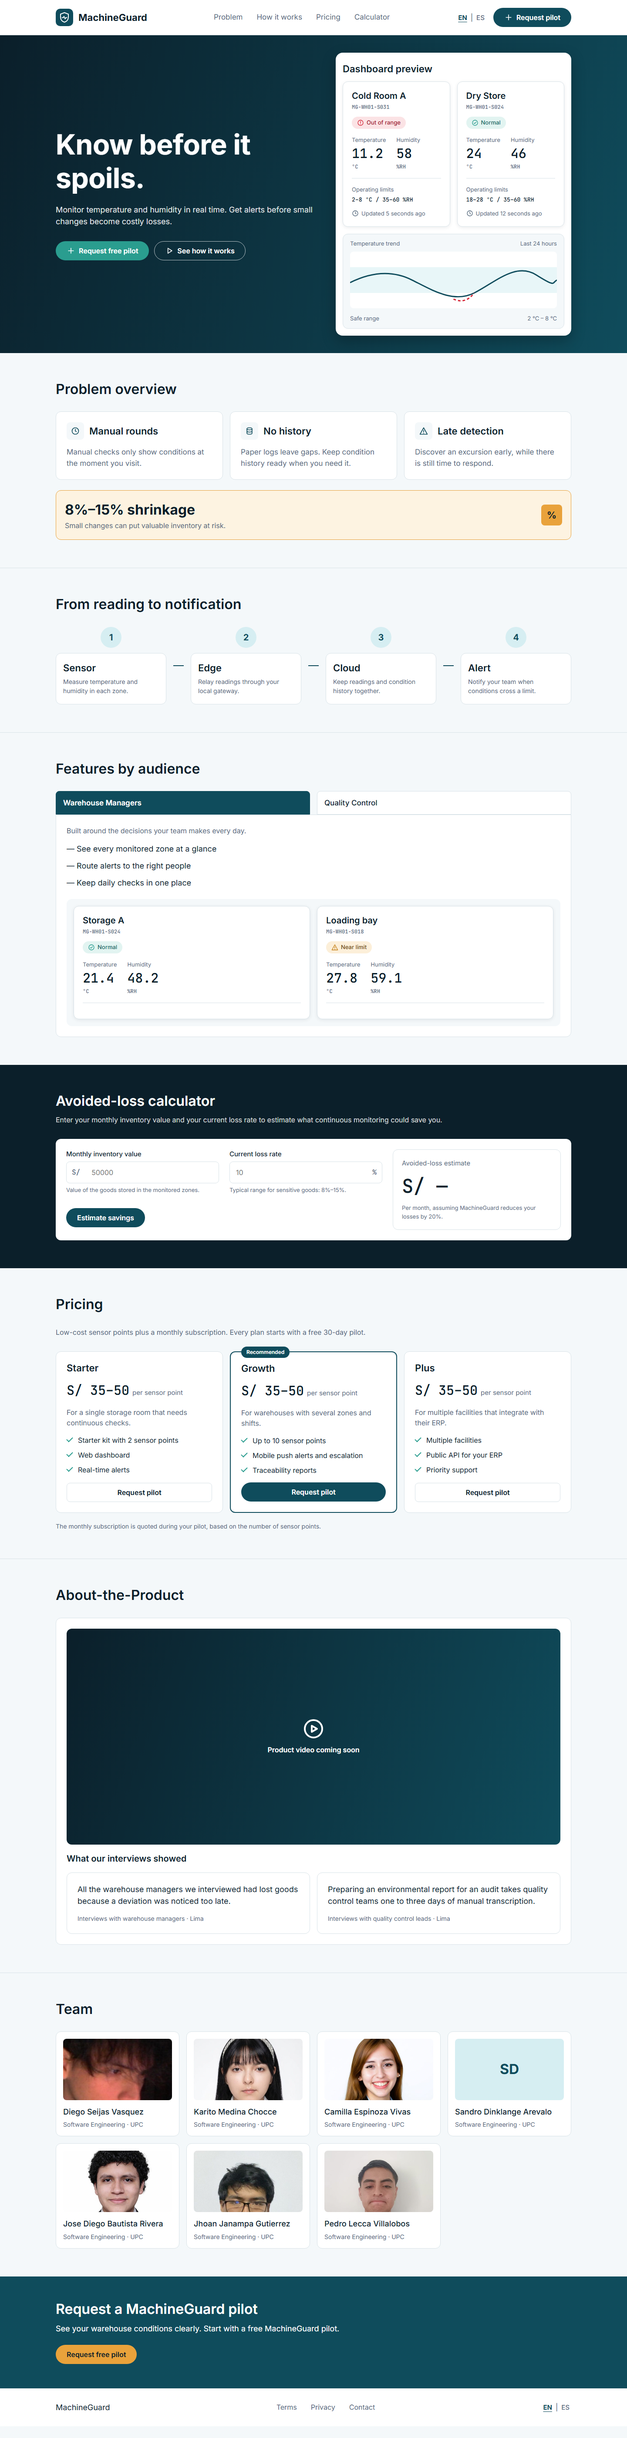
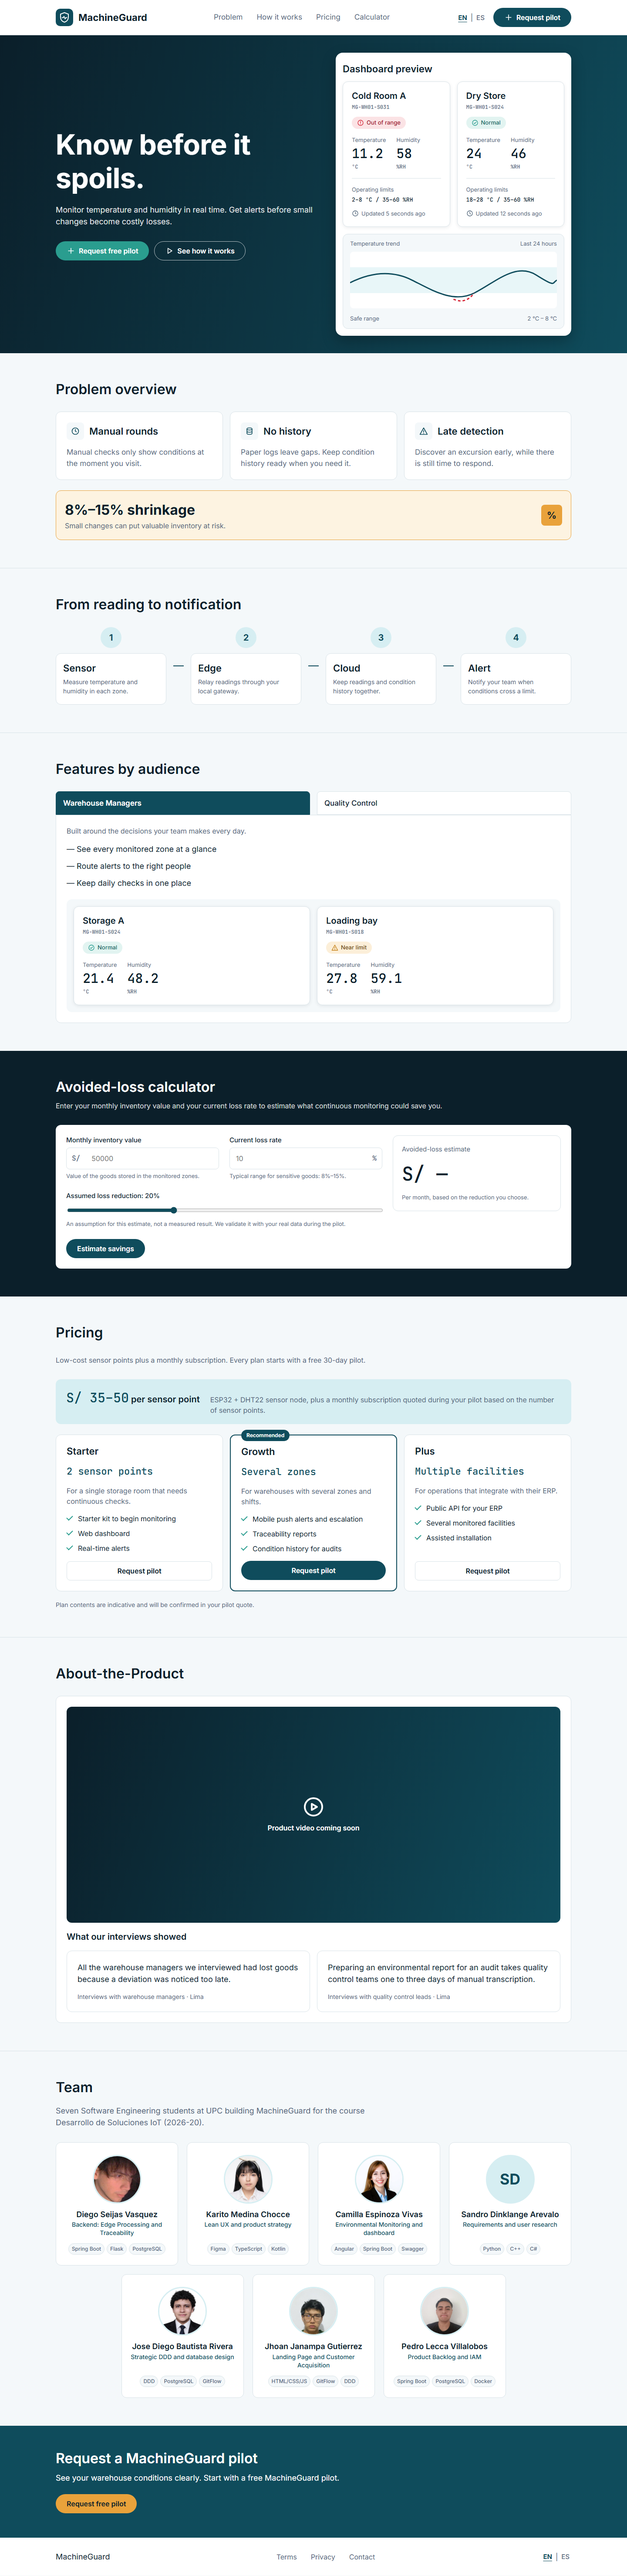
docs(chapter6): add Landing Page deployment evidence, tests, team section and updated screenshots

Changed region(s): [[0.0, 0.0, 1.0, 1.0], [0.75, 0.0, 0.9062, 0.0938]]

diff --git a/docs/chapter6-product-implementation-validation-deployment.md b/docs/chapter6-product-implementation-validation-deployment.md
@@ -24,11 +24,12 @@ El Landing Page es un sitio estático (HTML5, CSS3 y JavaScript sin dependencias
 
 | Elemento | Configuración |
 |---|---|
-| Hosting | GitHub Pages (fuente: GitHub Actions) |
+| Hosting | GitHub Pages, publicado por el workflow de GitHub Actions |
 | Disparador | `push` a `main` o ejecución manual |
-| Artefacto | Carpeta `_site` con `index.html`, `terms.html`, `privacy.html` y `assets/` |
+| Artefacto | Carpeta `_site` con `index.html`, `404.html`, `terms.html`, `privacy.html`, `robots.txt`, `sitemap.xml` y `assets/` |
 | Acciones utilizadas | `actions/checkout@v4`, `actions/configure-pages@v5`, `actions/upload-pages-artifact@v3`, `actions/deploy-pages@v4` |
 | Permisos del workflow | `contents: read`, `pages: write`, `id-token: write` |
+| Integración continua | Workflow `.github/workflows/ci.yml`: ejecuta `node --test` en `develop`, ramas `feature/**` y pull requests hacia `develop` y `main` |
 | Configuración de ejecución | `assets/js/config.js` (`apiBaseUrl` vacío = modo demostración) |
 
 > Pendiente: configuración de despliegue de la RESTful API y de la Web Application.
@@ -323,18 +324,19 @@ Se implementó el Landing Page de MachineGuard en el repositorio [MachineGuard/M
 * **Hero:** titular “Know before it spoils.”, botones *Request free pilot* y *See how it works*, y una vista previa del dashboard con las zonas Cold Room A (fuera de rango) y Dry Store (normal) y un gráfico de tendencia con su Safe Range.
 * **Problem overview y From reading to notification:** tres tarjetas del problema, el banner de 8%–15% de merma (Capítulo I) y los cuatro pasos Sensor, Edge, Cloud y Alert.
 * **Features by audience:** pestañas accesibles (teclado y `aria-selected`) para Warehouse Managers y Quality Control, con tarjetas de zona de ejemplo.
-* **Avoided-loss calculator (US14):** formulario con valor mensual del inventario y tasa de pérdida actual; valida los datos antes de calcular y muestra el ahorro estimado.
-* **Pricing, About-the-Product, Team y CTA final:** tres planes, espacio para el video, hallazgos de las entrevistas del Capítulo II, las siete tarjetas del equipo y el cierre con *Request free pilot*.
+* **Avoided-loss calculator (US14):** formulario con valor mensual del inventario, tasa de pérdida actual y una reducción de pérdidas asumida ajustable (5 %–50 %, 20 % por defecto). Valida los datos antes de calcular, muestra el ahorro mensual y anual estimado y, tras calcular, ofrece el botón *Request a pilot with this estimate*, que abre el formulario con la pérdida estimada precargada.
+* **Pricing, About-the-Product, Team y CTA final:** un recuadro con el precio documentado por punto de sensor y tres planes (Starter, Growth y Plus) diferenciados por alcance, espacio para el video, hallazgos de las entrevistas del Capítulo II, la sección de equipo y el cierre con *Request free pilot*.
+* **Team:** siete tarjetas con foto circular, nombre, el rol de cada integrante en el proyecto y tres tecnologías. Los roles se derivan de los capítulos y secciones que cada integrante redactó o implementó, y las tecnologías, de los perfiles de la sección 1.1.2 y del trabajo registrado en este Capítulo. La última fila se centra y, en pantallas pequeñas, las tarjetas pasan a un diseño horizontal.
 * **Formulario de solicitud de piloto (US15):** diálogo modal accesible con empresa, nombre de contacto, correo, teléfono, rubro, pérdida mensual estimada (opcional) y aceptación de Terms y Privacy. Cada campo corresponde a un atributo del agregado `PilotRequest` del Capítulo IV.
 * **Páginas legales:** `terms.html` y `privacy.html`, requeridas por el enunciado y enlazadas desde el pie de página y desde el formulario.
 
 **Reglas implementadas**
 
-* **Calculadora:** pérdida estimada = valor del inventario × tasa de pérdida; el ahorro estimado se calcula asumiendo una reducción del 20 % de esa pérdida (parámetro `avoidedLossReduction` en `config.js`). El valor debe ser mayor que cero y la tasa debe estar entre 0.1 % y 100 %; de lo contrario se solicita corregir los datos antes de calcular (Scenario 2 de US14).
+* **Calculadora:** pérdida estimada = valor del inventario × tasa de pérdida; el ahorro mensual estimado es esa pérdida multiplicada por la reducción asumida, y el anual es ese ahorro por doce. La reducción es seleccionable entre 5 % y 50 % (valor inicial: parámetro `avoidedLossReduction` de `config.js`, 20 %) y se indica en pantalla que es un supuesto, no un resultado medido. El valor debe ser mayor que cero y la tasa debe estar entre 0.1 % y 100 %; de lo contrario se solicita corregir los datos antes de calcular (Scenario 2 de US14). La lógica vive en `assets/js/calc.js`, separada de la interfaz para poder probarla.
 * **Formulario:** correo y teléfono con formato válido, todos los campos obligatorios completos y términos aceptados antes de enviar. El correo se normaliza a minúsculas. Si el visitante usó la calculadora, la pérdida estimada se precarga en el formulario.
 * **Internacionalización:** textos en `en_US` (por defecto) y `es_419` mediante diccionarios en `assets/js/i18n.js`; el idioma se toma de la URL (`?lang=`), de la preferencia guardada en el navegador o del idioma del navegador.
 * **Accesibilidad:** enlace para saltar al contenido, estados de campo con `aria-invalid` y mensajes en regiones `aria-live`, foco visible, objetivos táctiles de 44 px como mínimo y estados de zona que combinan color, icono y texto.
-* **SEO:** título, descripción, palabras clave, Open Graph, `hreflang` y datos estructurados JSON-LD de tipo `SoftwareApplication`, según la sección 5.2.3.
+* **SEO:** título, descripción, palabras clave, Open Graph con imagen de vista previa (`og-image.png`), `hreflang`, datos estructurados JSON-LD de tipo `SoftwareApplication`, `robots.txt`, `sitemap.xml` y una página `404.html`, según la sección 5.2.3.
 
 **Commits**
 
@@ -349,18 +351,26 @@ Se implementó el Landing Page de MachineGuard en el repositorio [MachineGuard/M
 | `MachineGuard-LandingPage` | `feature/landing-page` | `dbc5b40` | `fix(landing): fix team photo ratio and replace quoted findings with plain text` | 2026-10-07 |
 | `MachineGuard-LandingPage` | `develop` | `1fe7a1d` | `feat(landing): merge feature/landing-page into develop` | 2026-10-07 |
 | `MachineGuard-LandingPage` | `main` | `418b30e` | `chore: release landing page v1.0.0` | 2026-10-07 |
+| `MachineGuard-LandingPage` | `feature/landing-improvements` | `efc936f` | `refactor(landing): extract calculator logic into a testable module with unit tests` | 2026-10-07 |
+| `MachineGuard-LandingPage` | `feature/landing-improvements` | `76f84a7` | `ci: run unit tests on develop, feature branches and pull requests` | 2026-10-07 |
+| `MachineGuard-LandingPage` | `feature/landing-improvements` | `7e6161f` | `feat(landing): adjustable loss-reduction assumption, annual estimate and pilot CTA in calculator; clearer pricing model; mobile fixes` | 2026-10-07 |
+| `MachineGuard-LandingPage` | `feature/landing-improvements` | `7b1afb8` | `feat(seo): add og-image, robots.txt, sitemap.xml and 404 page` | 2026-10-07 |
+| `MachineGuard-LandingPage` | `feature/landing-improvements` | `f32089c` | `feat(landing): redesign team section with project roles, skill tags and circular photos` | 2026-10-07 |
+| `MachineGuard-LandingPage` | `develop` | `30baf51` | `feat(landing): merge feature/landing-improvements into develop` | 2026-10-07 |
+| `MachineGuard-LandingPage` | `main` | `63efb98` | `chore: release landing page v1.1.0` | 2026-10-07 |
 
 **Ajustes respecto al diseño del Capítulo V**
 
-* El mockup usa marcadores de posición en precios y testimonios. El Landing Page muestra únicamente el dato documentado en el Capítulo I (S/ 35–50 por punto de sensor) e indica que la suscripción mensual se cotiza durante el piloto; en lugar de testimonios, presenta dos hallazgos de las entrevistas del Capítulo II (100 % de los jefes de almacén perdió mercadería por detectar tarde una desviación y entre uno y tres días de trabajo para preparar un reporte de calidad), sin atribuirlos como citas textuales.
+* El mockup usa marcadores de posición en precios y testimonios. El Landing Page muestra el dato documentado en el Capítulo I (S/ 35–50 por punto de sensor) una sola vez, en un recuadro común, e indica que la suscripción mensual se cotiza durante el piloto; los tres planes se diferencian por alcance (2 puntos de sensor, varias zonas, múltiples instalaciones) y por funcionalidades ya definidas en el informe, y se aclara que su contenido es referencial; en lugar de testimonios, presenta dos hallazgos de las entrevistas del Capítulo II (100 % de los jefes de almacén perdió mercadería por detectar tarde una desviación y entre uno y tres días de trabajo para preparar un reporte de calidad), sin atribuirlos como citas textuales.
 * El espacio del video About-the-Product muestra “Product video coming soon” hasta que exista el video (sección 6.4).
 * El formulario de solicitud de piloto se implementó como diálogo modal sobre la misma página, en lugar de una página aparte, para mantener visible el contexto del visitante.
-* Las fotografías del equipo provienen de la sección 1.1.2; Sandro Dinklange Arevalo se representa con sus iniciales porque no existe una fotografía en el repositorio.
+* Las fotografías del equipo provienen de la sección 1.1.2; Sandro Dinklange Arevalo se representa con sus iniciales porque no existe una fotografía en el repositorio. La fotografía de Diego Seijas Vasquez, de baja calidad y muy oscura, se recortó sobre el rostro y se le aplicó una corrección leve de exposición; conviene sustituirla por una fotografía mejor.
 
 **Limitaciones**
 
 * El formulario todavía no se conecta a la RESTful API central: `apiBaseUrl` está vacío y el sitio opera en modo demostración, que valida los datos pero no los envía.
-* La estimación de la calculadora es referencial: el 20 % de reducción de pérdidas es un supuesto de este Sprint, no un resultado medido en un piloto.
+* La estimación de la calculadora es referencial: la reducción de pérdidas es un supuesto elegido por el visitante (20 % por defecto), no un resultado medido en un piloto.
+* El contenido de cada plan (Starter, Growth y Plus) es una propuesta del equipo basada en las capacidades del informe; está pendiente de confirmación junto con la cotización de la suscripción.
 * El texto de Terms y Privacy es un borrador académico pendiente de revisión legal.
 
 #### 6.2.1.5. Testing Suite Evidence for Sprint Review
@@ -535,7 +545,23 @@ No se implementaron archivos BDD `.feature` durante este Sprint para Environment
 
 ##### Jhoan Janampa — Landing Page
 
-No se implementaron pruebas automatizadas para el Landing Page durante este Sprint; no existen archivos de prueba ni archivos BDD `.feature`. La verificación se realizó de forma manual y mediante comprobaciones ejecutadas en el navegador sobre el sitio servido localmente (`python -m http.server`), con los resultados que se muestran en la sección 6.2.1.6.
+Se implementaron pruebas unitarias para la lógica de la calculadora de pérdidas evitadas, extraída a `assets/js/calc.js`. Se ejecutan con el ejecutor de pruebas integrado de Node.js (`node --test`) y se incluyen en el workflow de integración continua `ci.yml`. No existen archivos BDD `.feature`; la interfaz (formulario, idioma, diseño responsivo) se verificó de forma manual en el navegador, con los resultados de la sección 6.2.1.6.
+
+| Archivo de prueba | Tipo | Alcance |
+|---|---|---|
+| `tests/calc.test.js` | Unit Test | Validación de los campos de la calculadora y cálculo del ahorro mensual y anual. |
+
+| Test | Comportamiento validado |
+|---|---|
+| `validate accepts a positive value and a rate within range` | Acepta valores válidos sin errores. |
+| `validate reports required fields when empty` | Informa campos obligatorios vacíos. |
+| `validate rejects zero and negative inventory values` | Rechaza inventarios iguales o menores que cero. |
+| `validate rejects rates outside 0.1%-100% and accepts the limits` | Rechaza tasas fuera de rango y acepta 0.1 % y 100 %. |
+| `estimate: 50000 at 10% loss with 20% reduction avoids 1000 per month` | S/ 50,000 con 10 % de pérdida y 20 % de reducción: pérdida de S/ 5,000, ahorro mensual de S/ 1,000 y anual de S/ 12,000. |
+| `estimate scales with the chosen reduction` | Con 40 % de reducción el ahorro mensual es S/ 2,000. |
+| `estimate clamps the reduction to the 5%-50% assumption range` | Limita la reducción asumida al rango 5 %–50 %. |
+
+Resultado de `node --test` sobre la rama `feature/landing-improvements`: 7 pruebas, 7 correctas, 0 fallidas. El workflow `CI` se ejecutó con resultado exitoso en GitHub Actions al subir `develop` y `feature/landing-improvements` el 2026-10-07 ([ejecución en `develop`](https://github.com/MachineGuard/MachineGuard-LandingPage/actions/runs/37665764609) y [ejecución en `feature/landing-improvements`](https://github.com/MachineGuard/MachineGuard-LandingPage/actions/runs/37665763826)).
 
 #### 6.2.1.6. Execution Evidence for Sprint Review
 
@@ -572,15 +598,21 @@ La verificación funcional del Bounded Context Environmental Monitoring y de la 
 
 ##### Jhoan Janampa — funcionamiento del Landing Page
 
-La verificación funcional se ejecutó el 2026-10-07 sobre el sitio servido localmente en `http://127.0.0.1:8080`, usando un navegador de escritorio con un viewport de 1280 × 900 px y un navegador sin interfaz para las capturas. Se registraron los siguientes resultados:
+La verificación funcional se ejecutó el 2026-10-07 sobre el sitio servido localmente en `http://127.0.0.1:8080` (rama `feature/landing-improvements`), usando un navegador de escritorio con un viewport de 1280 × 900 px y un navegador sin interfaz para las capturas. Se registraron los siguientes resultados:
 
 | Verificación | Resultado |
 |---|---|
 | Carga de `index.html` y de sus recursos | Correcta; sin errores en la consola del navegador. |
 | Imágenes del sitio | Correcta; ninguna imagen rota. Se muestran las siete tarjetas del equipo. |
 | Calculadora con campos vacíos | Muestra “Enter a value.” en ambos campos y no calcula. |
-| Calculadora con inventario de 50 000 y pérdida de 10 % | Pérdida estimada de S/ 5,000.00 y ahorro estimado de S/ 1,000.00. |
-| Calculadora con tasa de 150 % | Muestra “Enter a rate between 0.1% and 100%.” y no calcula. |
+| Calculadora con inventario de 50 000, pérdida de 10 % y reducción de 20 % | Pérdida estimada de S/ 5,000.00, ahorro mensual de S/ 1,000.00 y anual de S/ 12,000.00; aparece el botón *Request a pilot with this estimate*. |
+| Calculadora: mover la reducción asumida a 40 % | El resultado se actualiza al instante a S/ 2,000.00 al mes y S/ 24,000.00 al año. |
+| Calculadora: botón *Request a pilot with this estimate* | Abre el formulario con la pérdida estimada precargada (5000.00). |
+| Calculadora con tasa de 150 % | Muestra “Enter a rate between 0.1% and 100%.”, limpia el resultado y oculta el botón de piloto. |
+| Recursos de SEO | `og-image.png`, `robots.txt`, `sitemap.xml` y `404.html` responden HTTP 200. |
+| Sección Team a 1280, 1024 y 390 px | Siete tarjetas con rol y tecnologías, sin desbordamiento horizontal; las etiquetas de tecnologías caben en una sola línea en las siete tarjetas; la última fila se centra y los textos cambian entre EN y ES. |
+| Sitio publicado en `https://machineguard.github.io/MachineGuard-LandingPage/` | Responde HTTP 200 y contiene los elementos de la versión `v1.1.0` (control de reducción de la calculadora e introducción del equipo); `og-image.png` y `robots.txt` responden HTTP 200. |
+| Diseño responsivo a 390 px | Sin desbordamiento horizontal (`scrollWidth` igual al ancho de pantalla); las capturas generadas a 390 px muestran el contenido completo. |
 | Cambio de idioma a ES | El titular pasa a “Anticípese a la merma.”, `lang` cambia a `es-419` y la preferencia queda guardada en `localStorage`. |
 | Formulario de piloto: apertura | Se abre el diálogo y la pérdida estimada se precarga con 5000.00 desde la calculadora. |
 | Formulario de piloto: envío vacío | Seis mensajes de error (cinco campos obligatorios y la aceptación de términos); no se envía. |
@@ -589,11 +621,12 @@ La verificación funcional se ejecutó el 2026-10-07 sobre el sitio servido loca
 
 ![Landing Page, versión Desktop](../assets/img/chapter-6/landing/landing-desktop.png)
 
-*Figura. Captura completa del Landing Page en Desktop (1440 px), idioma EN.*
+*Figura. Captura completa del Landing Page publicado en Desktop (1440 px), idioma EN.*
 
 ![Landing Page, versión Mobile](../assets/img/chapter-6/landing/landing-mobile.png)
 
-*Figura. Captura completa del Landing Page en Mobile (390 px), idioma ES.*
+*Figura. Captura completa del Landing Page publicado en Mobile (390 px), idioma ES. Se generó incrustando la página en un marco de 390 px, porque el navegador sin interfaz no admite ventanas tan estrechas.*
+
 
 #### 6.2.1.7. Services Documentation Evidence for Sprint Review
 
@@ -964,22 +997,38 @@ El Landing Page se publica en GitHub Pages desde el repositorio `MachineGuard/Ma
 El workflow `.github/workflows/deploy-pages.yml` realiza las siguientes actividades:
 
 - Obtención del código fuente desde el repositorio (`actions/checkout@v4`).
-- Preparación de la carpeta `_site` con `index.html`, `terms.html`, `privacy.html` y `assets/`.
+- Preparación de la carpeta `_site` con `index.html`, `404.html`, `terms.html`, `privacy.html`, `robots.txt`, `sitemap.xml` y `assets/`.
 - Configuración de GitHub Pages (`actions/configure-pages@v5`).
 - Creación del artefacto de Pages (`actions/upload-pages-artifact@v3`).
 - Publicación automática (`actions/deploy-pages@v4`).
 
-El flujo de ramas sigue GitFlow: la funcionalidad se desarrolla en `feature/landing-page`, se integra en `develop` y se publica al integrarse en `main`, que es la rama que dispara el workflow.
+El flujo de ramas sigue GitFlow: la funcionalidad se desarrolla en una rama `feature/*`, se integra en `develop` y se publica al integrarse en `main`, que es la rama que dispara el workflow.
 
 | Elemento | Registro |
 |---|---|
 | Repositorio | [MachineGuard/MachineGuard-LandingPage](https://github.com/MachineGuard/MachineGuard-LandingPage) |
 | Rama de despliegue | `main` |
 | Workflow | `.github/workflows/deploy-pages.yml` |
-| URL prevista | `https://machineguard.github.io/MachineGuard-LandingPage/` |
-| Estado de la publicación | Pendiente de confirmar |
+| URL publicada | [https://machineguard.github.io/MachineGuard-LandingPage/](https://machineguard.github.io/MachineGuard-LandingPage/) |
+| Versión publicada | `v1.1.0` (commit `63efb98`) |
+| Estado de la publicación | Publicado |
 
-> Pendiente: registrar el resultado de la primera ejecución del workflow (etapas Build y Deploy), la captura de la ejecución en la pestaña *Actions*, la URL publicada confirmada y una captura del sitio en línea. No se documenta como desplegado hasta contar con esa evidencia.
+**Ejecuciones del workflow**
+
+| Ejecución | Commit | Resultado | Detalle |
+|---|---|---|---|
+| [#1](https://github.com/MachineGuard/MachineGuard-LandingPage/actions/runs/37658680655), 2026-10-07 12:23 | `418b30e` (`v1.0.0`) | Fallida | Las etapas *Prepare site* y *checkout* finalizaron, pero `actions/configure-pages@v5` falló con “Get Pages site failed. Please verify that the repository has Pages enabled”. Las etapas de publicación se omitieron. |
+| [#2](https://github.com/MachineGuard/MachineGuard-LandingPage/actions/runs/37665763803), 2026-10-07 13:18 | `63efb98` (`v1.1.0`) | Exitosa | Las etapas *Prepare site*, *configure-pages*, *upload-pages-artifact* y *deploy-pages* finalizaron correctamente; el job `deploy` tardó 16 s y la ejecución completa 23 s. Generó un artefacto. |
+
+La primera ejecución falló porque GitHub Pages aún no estaba activado en el repositorio. El error no estaba en el workflow ni en el sitio: se corrigió activando GitHub Pages desde la configuración del repositorio. Tras activarlo, GitHub construyó y publicó el commit `418b30e` (`v1.0.0`) mediante la ejecución automática *pages build and deployment*, y la ejecución #2 del workflow publicó `v1.1.0`.
+
+![Ejecución exitosa del workflow de deployment del Landing Page](../assets/img/chapter-6/landing/landing-github-actions-deployment.png)
+
+*Figura. Ejecución #2 del workflow de deployment del Landing Page, finalizada con éxito.*
+
+La verificación posterior a la publicación, ejecutada el 2026-10-07, confirmó que el sitio responde HTTP 200 y que sirve los elementos de `v1.1.0`. La captura del sitio publicado se encuentra en la sección 6.2.1.6.
+
+**Pendiente:** la rama por defecto del repositorio sigue siendo `feature/landing-page`; debe cambiarse a `main` desde la configuración del repositorio para que quien lo clone reciba la versión estable.
 
 **Estado de integración con Core API**
 
